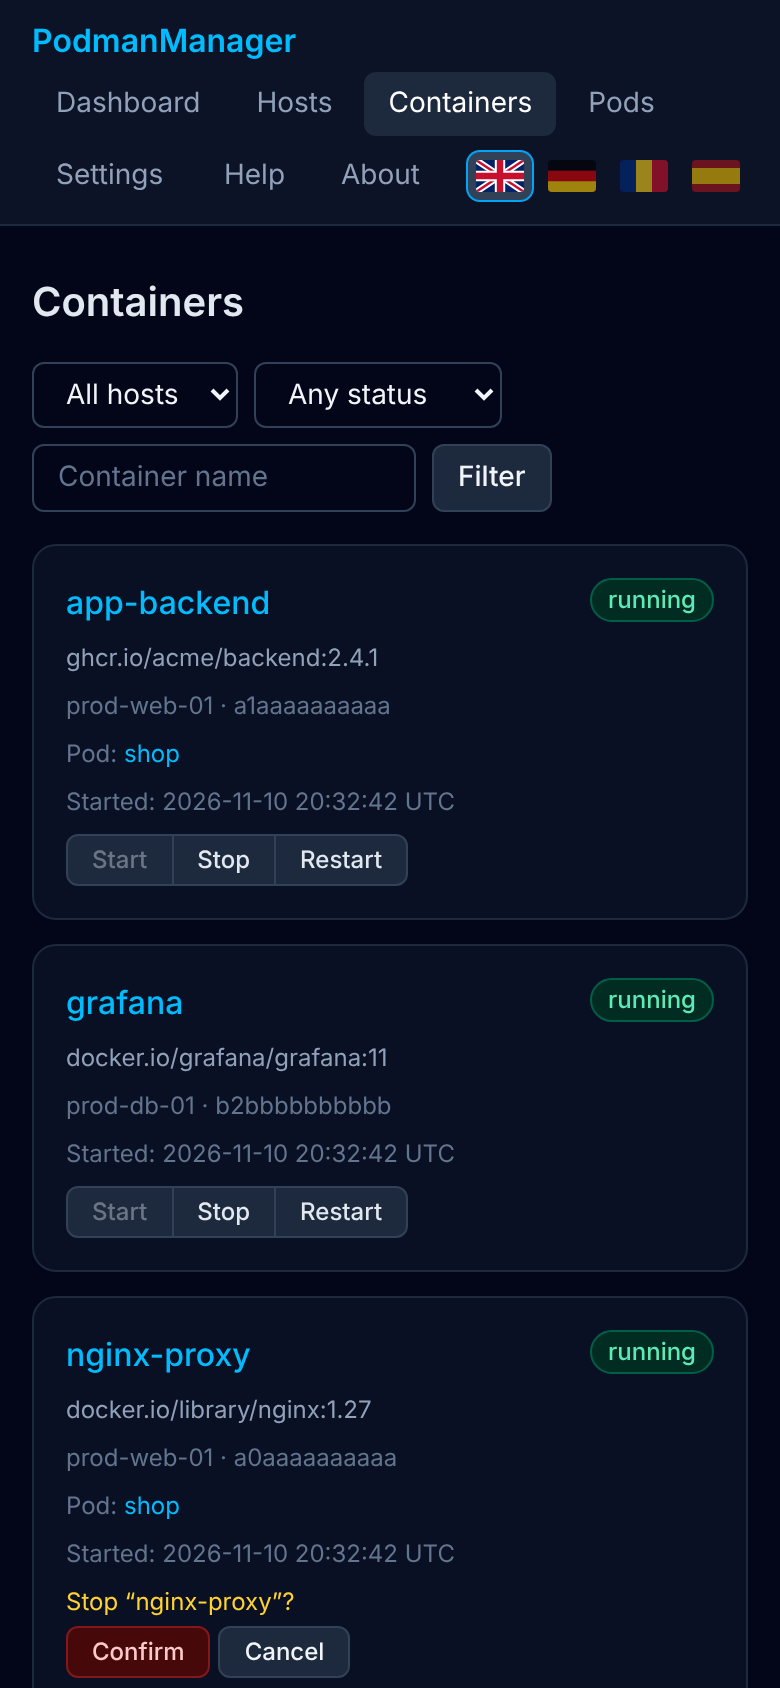
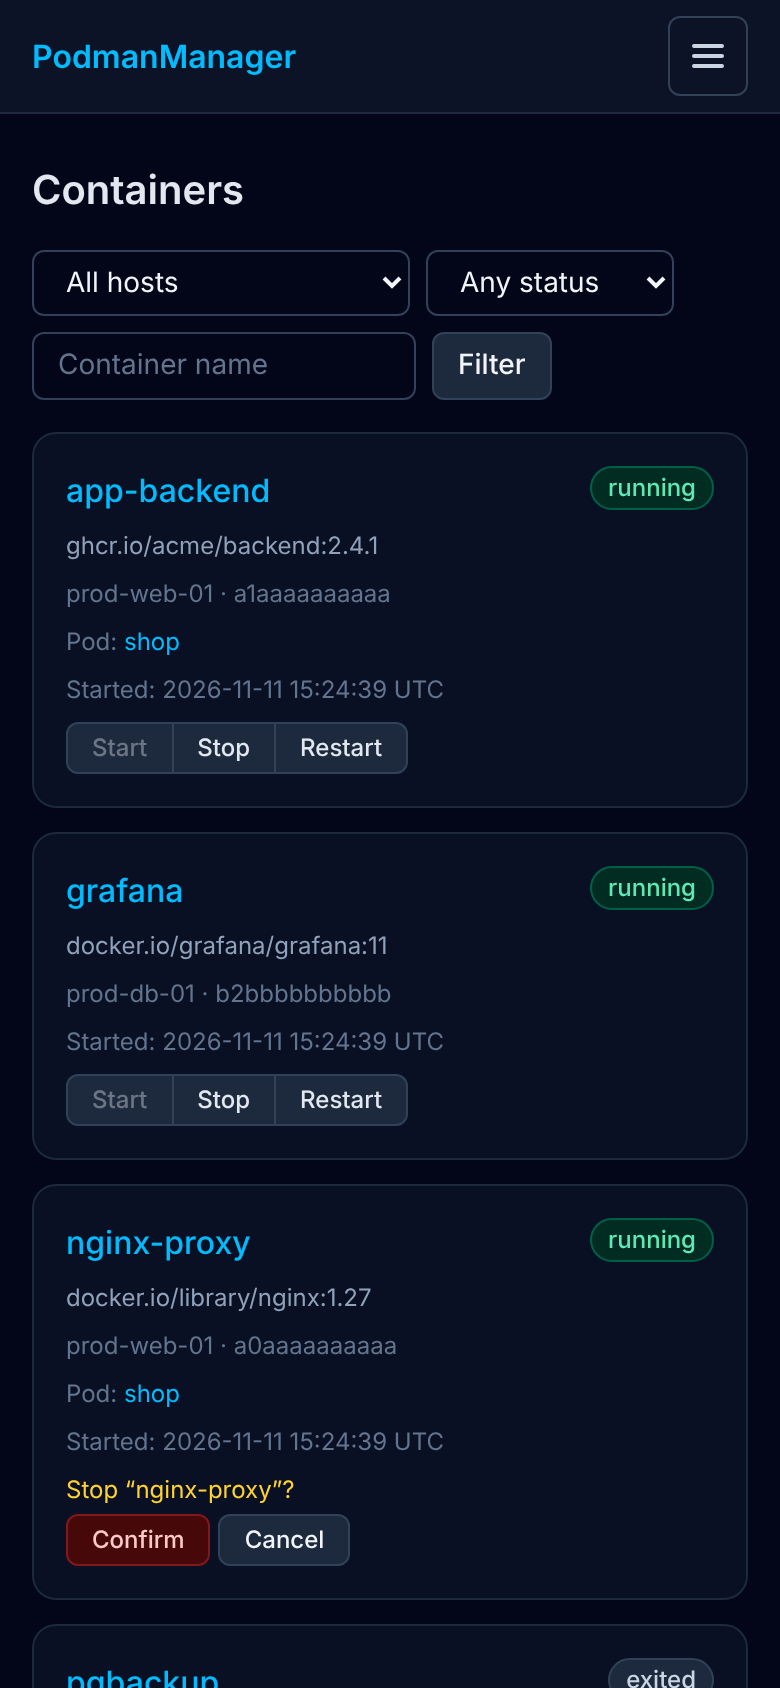
Navbar: hamburger menu on phones (below 768px) (#37)
Below md the bar shows the brand and a menu button; the menu (pages, Help, About, language) opens as a vertical list,
closes after navigating and on Escape. From md the bar is unchanged. README phone screenshots refreshed.

Claude-Session: https://claude.ai/code/session_01Mw1eJcjz1zhTj6DqA4m2yv

diff --git a/apps/master/src/components/Nav.tsx b/apps/master/src/components/Nav.tsx
@@ -1,6 +1,7 @@
 "use client";
 
 import Link from "next/link";
+import { useEffect, useState } from "react";
 import { usePathname } from "next/navigation";
 import type { Key } from "@/lib/i18n";
 import { useT } from "./I18nProvider";
@@ -19,31 +20,58 @@ const ITEMS: { href: string; key: Key }[] = [
 export default function Nav({ version, brand }: { version: string; brand: { text: string | null; logo: string | null } }) {
   const path = usePathname();
   const t = useT();
+  const [open, setOpen] = useState(false);
+  // close the phone menu after navigating and on Escape
+  useEffect(() => setOpen(false), [path]);
+  useEffect(() => {
+    if (!open) return;
+    const onKey = (e: KeyboardEvent) => e.key === "Escape" && setOpen(false);
+    window.addEventListener("keydown", onKey);
+    return () => window.removeEventListener("keydown", onKey);
+  }, [open]);
+  const link = "rounded-md px-3 py-2 text-sm transition md:py-1.5";
   return (
     <nav className="border-b border-slate-800 bg-slate-900/80 backdrop-blur">
-      <div className="mx-auto flex max-w-7xl flex-wrap items-center gap-1 px-4 py-2">
-        <span className="mr-4 flex h-8 w-full items-center font-semibold text-sky-400 sm:w-auto">
-          {brand.logo ? (
-            // eslint-disable-next-line @next/next/no-img-element
-            <img src={`/brand/logo?v=${brand.logo}`} alt={brand.text ?? APP_NAME} title={brand.text ?? APP_NAME} className="h-8 max-h-8 w-auto max-w-[14rem] object-contain" />
-          ) : (
-            <span className="max-w-[18rem] truncate" title={brand.text ?? APP_NAME}>{brand.text ?? APP_NAME}</span>
-          )}
-        </span>
-        {ITEMS.map((i) => {
-          const active = i.href === "/" ? path === "/" : path.startsWith(i.href);
-          return (
-            <Link key={i.href} href={i.href} className={`rounded-md px-3 py-1.5 text-sm transition ${active ? "bg-slate-800 text-white" : "text-slate-400 hover:text-white"}`}>
-              {t(i.key)}
-            </Link>
-          );
-        })}
-        <div className="ml-auto flex items-center gap-1">
-          <a href={REPO_URL} target="_blank" rel="noopener noreferrer" className="rounded-md px-3 py-1.5 text-sm text-slate-400 transition hover:text-white">
-            {t("nav.help")}
-          </a>
-          <AboutDialog version={version} />
-          <LangSelect className="ml-2" />
+      {/* below md: brand + hamburger, menu as a vertical list; from md: one row (md:contents flattens the wrappers) */}
+      <div className="mx-auto max-w-7xl px-4 py-2 md:flex md:flex-wrap md:items-center md:gap-1">
+        <div className="flex items-center justify-between gap-3 md:contents">
+          <span className="mr-4 flex h-8 min-w-0 items-center font-semibold text-sky-400">
+            {brand.logo ? (
+              // eslint-disable-next-line @next/next/no-img-element
+              <img src={`/brand/logo?v=${brand.logo}`} alt={brand.text ?? APP_NAME} title={brand.text ?? APP_NAME} className="h-8 max-h-8 w-auto max-w-[14rem] object-contain" />
+            ) : (
+              <span className="max-w-[18rem] truncate" title={brand.text ?? APP_NAME}>{brand.text ?? APP_NAME}</span>
+            )}
+          </span>
+          <button
+            type="button"
+            className="flex h-10 w-10 items-center justify-center rounded-md border border-slate-700 text-slate-300 transition hover:bg-slate-800 hover:text-white md:hidden"
+            aria-label={t("nav.menu")}
+            aria-expanded={open}
+            aria-controls="nav-menu"
+            onClick={() => setOpen((o) => !o)}
+          >
+            <svg width="20" height="20" viewBox="0 0 20 20" fill="none" stroke="currentColor" strokeWidth="2" strokeLinecap="round" aria-hidden="true">
+              {open ? <path d="M4 4l12 12M16 4L4 16" /> : <path d="M3 5h14M3 10h14M3 15h14" />}
+            </svg>
+          </button>
+        </div>
+        <div id="nav-menu" className={open ? "flex flex-col gap-1 pt-2 md:contents" : "hidden md:contents"}>
+          {ITEMS.map((i) => {
+            const active = i.href === "/" ? path === "/" : path.startsWith(i.href);
+            return (
+              <Link key={i.href} href={i.href} className={`${link} ${active ? "bg-slate-800 text-white" : "text-slate-400 hover:text-white"}`}>
+                {t(i.key)}
+              </Link>
+            );
+          })}
+          <div className="mt-1 flex flex-wrap items-center gap-1 border-t border-slate-800 pt-2 md:ml-auto md:mt-0 md:border-0 md:pt-0">
+            <a href={REPO_URL} target="_blank" rel="noopener noreferrer" className={`${link} text-slate-400 hover:text-white`}>
+              {t("nav.help")}
+            </a>
+            <AboutDialog version={version} />
+            <LangSelect className="ml-2" />
+          </div>
         </div>
       </div>
     </nav>

diff --git a/apps/master/src/lib/i18n.ts b/apps/master/src/lib/i18n.ts
@@ -126,6 +126,7 @@ const en = {
   "set.accessGroups": "Access: agents of the groups {groups}",
   "scope.note": "You only see the agents of your groups: {groups}.",
   "nav.help": "Help",
+  "nav.menu": "Menu",
   "nav.about": "About",
   "about.version": "Version",
   "about.close": "Close",
@@ -317,6 +318,7 @@ const de: Dict = {
   "set.accessGroups": "Zugriff: Agents der Gruppen {groups}",
   "scope.note": "Sie sehen nur die Agents Ihrer Gruppen: {groups}.",
   "nav.help": "Hilfe",
+  "nav.menu": "Menü",
   "nav.about": "Über",
   "about.version": "Version",
   "about.close": "Schließen",
@@ -505,6 +507,7 @@ const ro: Dict = {
   "set.accessGroups": "Acces: agenții grupurilor {groups}",
   "scope.note": "Vedeți doar agenții grupurilor dvs.: {groups}.",
   "nav.help": "Ajutor",
+  "nav.menu": "Meniu",
   "nav.about": "Despre",
   "about.version": "Versiune",
   "about.close": "Închide",
@@ -693,6 +696,7 @@ const es: Dict = {
   "set.accessGroups": "Acceso: agentes de los grupos {groups}",
   "scope.note": "Solo ves los agentes de tus grupos: {groups}.",
   "nav.help": "Ayuda",
+  "nav.menu": "Menú",
   "nav.about": "Acerca de",
   "about.version": "Versión",
   "about.close": "Cerrar",

diff --git a/apps/master/src/components/AboutDialog.tsx b/apps/master/src/components/AboutDialog.tsx
@@ -23,7 +23,7 @@ export default function AboutDialog({ version }: { version: string }) {
 
   return (
     <>
-      <button type="button" onClick={open} className="rounded-md px-3 py-1.5 text-sm text-slate-400 transition hover:text-white">
+      <button type="button" onClick={open} className="rounded-md px-3 py-2 text-sm text-slate-400 transition hover:text-white md:py-1.5">
         {t("nav.about")}
       </button>
       <dialog

diff --git a/README.md b/README.md
@@ -36,7 +36,7 @@ Kein Docker, kein Compose, kein HTTPS/TLS, kein Root. **Nur in einem abgeschotte
 | **Pods** | **Pod-Details mit gemischten Logs** |
 | ![Pods](docs/screenshots/desktop-pods.png) | ![Pod-Details](docs/screenshots/desktop-pod-detail.png) |
 
-**Smartphone** (Kartenansicht statt Tabellen)
+**Smartphone** (Hamburger-Menü und Kartenansicht statt Tabellen)
 
 <p>
   <img src="docs/screenshots/mobile-dashboard.png" alt="Dashboard mobil" width="200">
